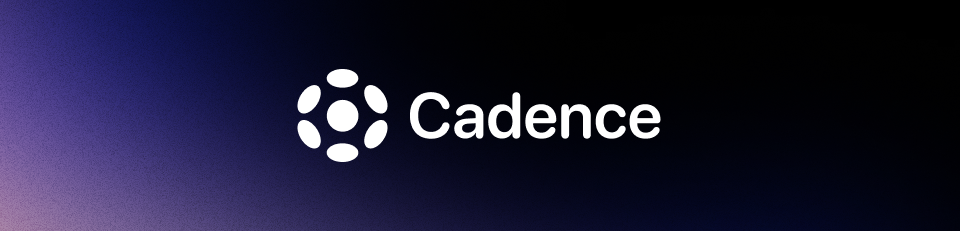
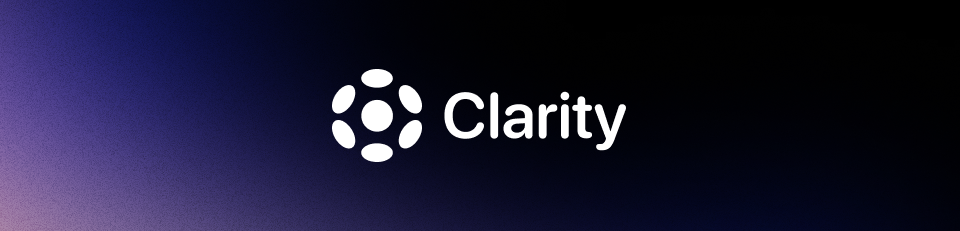
Rename app to Clarity and add RevenueCat dependencies
- Update Expo identifiers, branding, history keys, and preview messaging
- Add react-native-purchases and react-native-purchases-ui

Changed region(s): [[0.3125, 0.303, 0.6875, 0.697]]

diff --git a/app.config.ts b/app.config.ts
@@ -4,7 +4,7 @@ import { ConfigContext, ExpoConfig } from 'expo/config';
 // variant, so `development`, `preview`, and `production` builds install side by
 // side. The variant comes from APP_VARIANT, stored in the EAS environments and
 // pulled locally into .env.local by `eas env:pull`.
-const BUNDLE_ID = 'com.schroedernathan.cadence';
+const BUNDLE_ID = 'com.schroedernathan.clarity';
 
 function getBundleId() {
   switch (process.env.APP_VARIANT) {
@@ -54,12 +54,12 @@ function getIosIcon() {
 
 export default ({ config }: ConfigContext): ExpoConfig => {
   const iosIcon = getIosIcon();
-  const baseScheme = typeof config.scheme === 'string' ? config.scheme : 'cadence';
+  const baseScheme = typeof config.scheme === 'string' ? config.scheme : 'clarity';
 
   return {
     ...config,
-    slug: config.slug ?? 'cadence',
-    name: getName(config.name ?? 'Cadence'),
+    slug: config.slug ?? 'clarity',
+    name: getName(config.name ?? 'Clarity'),
     scheme: getScheme(baseScheme),
     runtimeVersion: {
       policy: 'appVersion',

diff --git a/services/storage.ts b/services/storage.ts
@@ -22,7 +22,7 @@ let instance: ReturnType<typeof createMMKV> | null = null;
 function mmkv() {
   if (!instance) {
     instance = createMMKV({
-      id: 'cadence.v1',
+      id: 'clarity.v1',
       // Practice history is the one thing in this app that cannot be
       // regenerated, so prefer salvaging a damaged file over dropping it.
       recoveryStrategy: 'recover-on-error',

diff --git a/lib/history-schema.ts b/lib/history-schema.ts
@@ -253,7 +253,7 @@ export function parseWordStat(raw: unknown): WordStat | null {
 
 // --- Export envelope ---------------------------------------------------------
 
-export const EXPORT_KIND = 'cadence.history';
+export const EXPORT_KIND = 'clarity.history';
 export const EXPORT_VERSION = 1;
 
 export type HistoryExport = {

diff --git a/services/history-dev.ts b/services/history-dev.ts
@@ -187,5 +187,5 @@ export function installDevHandle(store: HistoryStore) {
     },
   };
 
-  (globalThis as unknown as { __cadence: typeof handle }).__cadence = handle;
+  (globalThis as unknown as { __clarity: typeof handle }).__clarity = handle;
 }

diff --git a/.codex/MEMORY.md b/.codex/MEMORY.md
@@ -4,7 +4,7 @@
 - iOS, Android, and web are configured; native directories are generated and ignored.
 - Bun lockfile and Bun-based tests are present, although `package.json` currently declares Yarn 1 in `packageManager`.
 - Metro uses the default port, 8081.
-- EAS project: `exponathan/cadence` (`654f9e52-e892-44e4-a4b8-9aa700fef15b`).
+- EAS project: `exponathan/clarity` (`654f9e52-e892-44e4-a4b8-9aa700fef15b`).
 - App variants are selected with `APP_VARIANT`; development, preview, and production use separate identifiers, names, schemes, and icons.
 - Preview builds use internal distribution, the `preview` EAS environment, and the `preview` update channel.
 - GitHub Actions runs Expo code review from trusted base-revision configuration. EAS PR previews require the maintainer-controlled `preview-approved` label and bundle in the secrets-free custom `pr-preview` environment (supported by the Production plan), which contains only `APP_VARIANT=preview`.

diff --git a/.expo-code-review/agents/consistency.md b/.expo-code-review/agents/consistency.md
@@ -33,7 +33,7 @@ the same kind of thing, so the codebase stays uniform and predictable.
   bare `Error` when a specific type exists? Do they link to the relevant
   docs/resource when sibling errors point users somewhere to learn more?
 
-## This repo's established conventions (speech-companion / Cadence)
+## This repo's established conventions (speech-companion / Clarity)
 
 - **Metrics surfaces follow the Metrics v2 tiers.** One hero metric: "Speaking
   score", rendered `NN` + `/100`, never `%`. Exactly five skills, same names and

diff --git a/.expo-code-review/agents/security.md b/.expo-code-review/agents/security.md
@@ -23,7 +23,7 @@ average severity.
 - Missing validation on untrusted input at a trust boundary.
 - Insecure file permissions, or writing secrets to world-readable paths.
 
-## Repo-specific sensitive surfaces (speech-companion / Cadence)
+## Repo-specific sensitive surfaces (speech-companion / Clarity)
 
 This is an Expo app (client bundle ships to users) plus expo-router API routes
 under `app/api/*+api.ts` deployed to EAS Hosting. Its sensitive surfaces:

diff --git a/.expo-code-review/agents/correctness.md b/.expo-code-review/agents/correctness.md
@@ -17,7 +17,7 @@ issues in the changed code.
 - Resource/async bugs: unhandled rejections, leaks, race conditions with a
   concrete trigger.
 
-## Repo-specific correctness rules (speech-companion / Cadence)
+## Repo-specific correctness rules (speech-companion / Clarity)
 
 This is an Expo SDK 57 + expo-router app. These bugs have real precedent here;
 flag them when the diff introduces one:

diff --git a/README.md b/README.md
@@ -1,8 +1,8 @@
-![Cadence](gh-preview.png)
+![Clarity](gh-preview.png)
 
 A speech practice app for iOS and Android, built with Expo.
 
-Read a passage out loud. Cadence listens, scores how you spoke, and tracks your
+Read a passage out loud. Clarity listens, scores how you spoke, and tracks your
 progress over time.
 
 ## What it does
